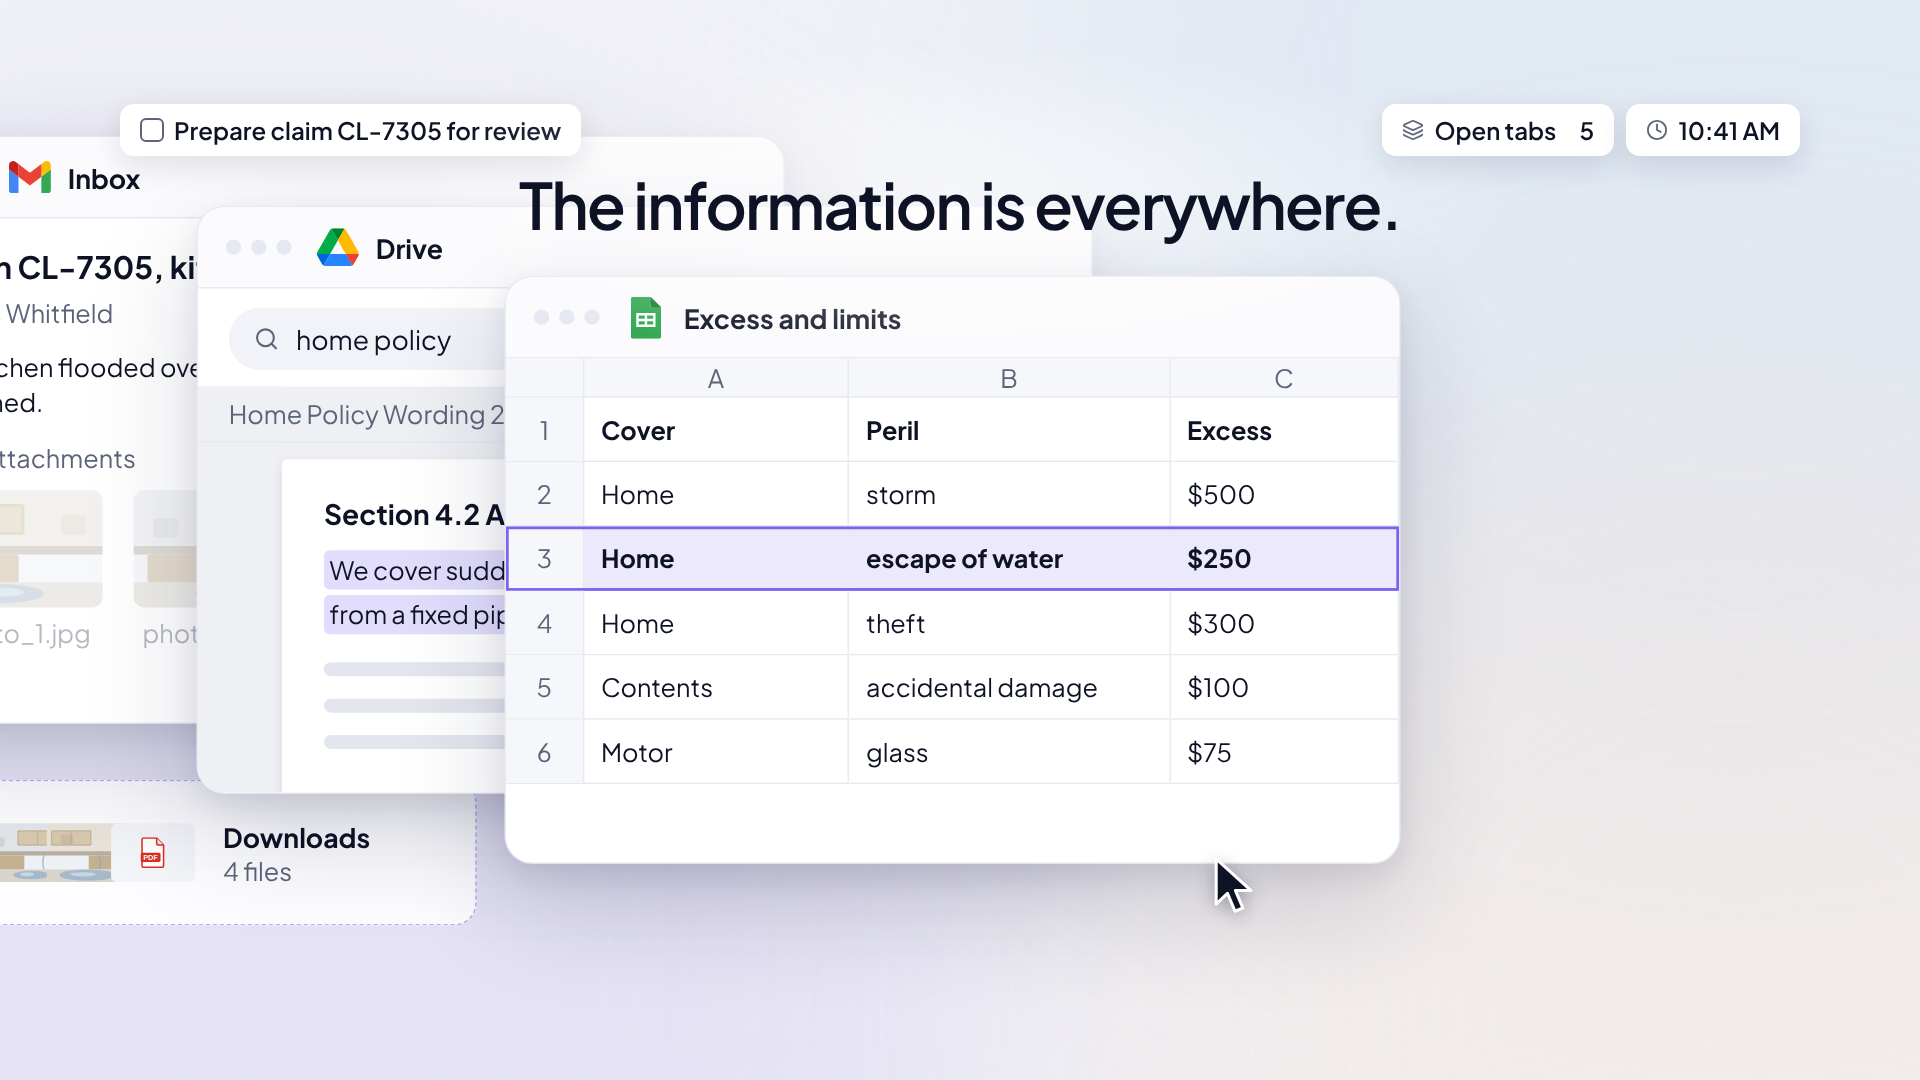
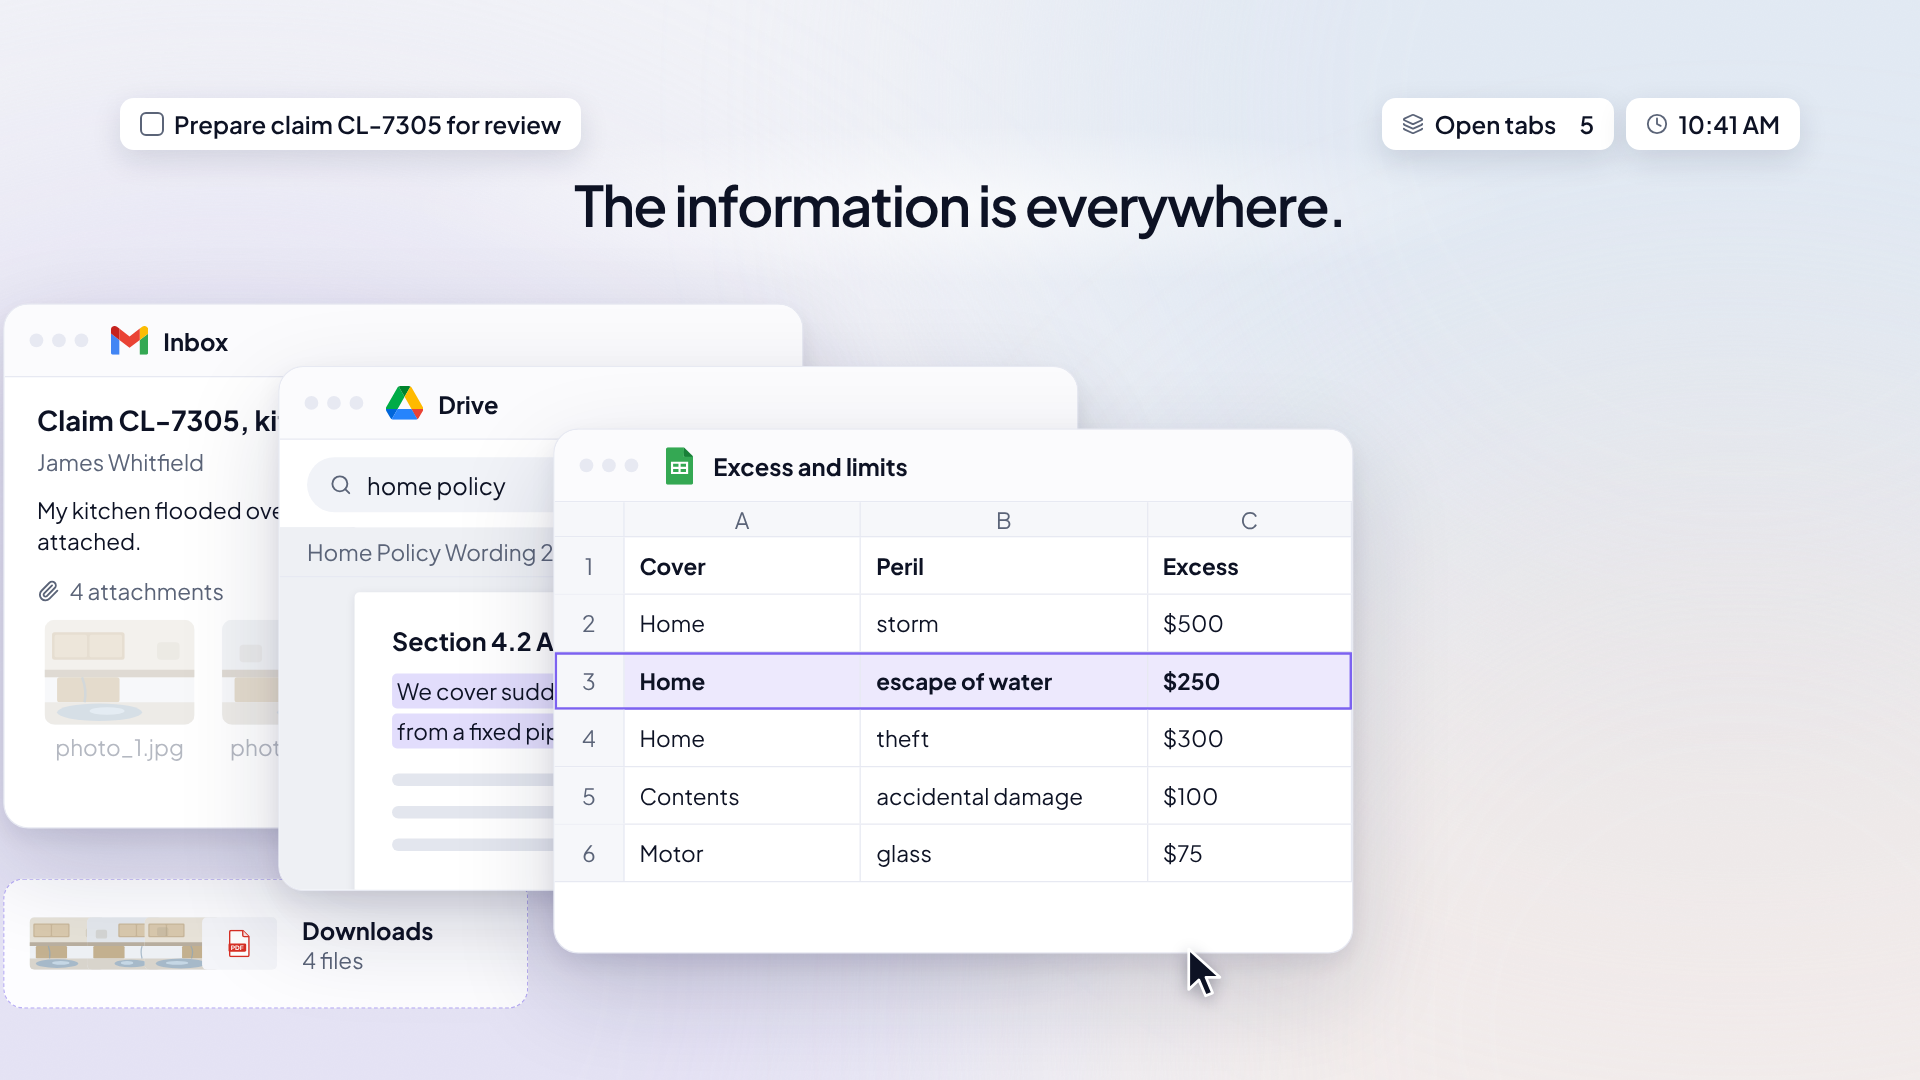
Scene 1: HUD and stage layers, reserved caption lane, stage clipped below it, camera capped at 1.25 and clamped, lane test and stills every 0.5s
Claude-Session: https://claude.ai/code/session_01RzJ2iPxRFapzmNmFA8Xcuj

diff --git a/space-explainer/src/scenes/Scene01Problem.tsx b/space-explainer/src/scenes/Scene01Problem.tsx
@@ -1,5 +1,5 @@
 import React from "react";
-import { AbsoluteFill, Img, interpolate, staticFile, useCurrentFrame, useVideoConfig } from "remotion";
+import { AbsoluteFill, getInputProps, Img, interpolate, staticFile, useCurrentFrame, useVideoConfig } from "remotion";
 import { Clock, Layers } from "lucide-react";
 import { EASE, FONT, PRODUCT_THEME_LIGHT as T } from "../theme";
 import { sceneById } from "../timeline";
@@ -88,7 +88,24 @@ const LINES = [
 const TABS: [number, number][] = [[0, 1], [1.2, 2], [S1.drive, 3], [S1.rowClick, 4], [S1.sheets, 5], [S1.slack, 6], [10.6, 7], [11.0, 8], [12.7, 9], [13.0, 11], [13.3, 14]];
 const CLOCK_AT = [0, 2.6, 5.6, 8.5, 9.6, 11.0, 13.0];
 
-const HUD = { left: 120, top: 104, lineY: 204 };
+/**
+ * Two layers. HUD (fixed, never under the camera): the task card and chips in the
+ * top corners of the caption lane, and the caption below them. STAGE (camera):
+ * windows, cursor, Downloads tray, Review summary, clipped below the lane.
+ */
+export const S1_LANE = { top: 96, bottom: 96 + 140 };
+/** Windows keep at least 24px below the lane; the stage keeps 48px at the bottom. */
+export const S1_STAGE = { top: S1_LANE.bottom + 24, bottom: 1080 - 48, feather: 24 };
+/** Card and chips sit in the lane's top corners; the caption below them, 24px clear. */
+const HUD = { left: 120, top: 98, chipH: 52, lineY: 205 };
+/** Caption sizes: 56px in the lane (64px would not fit under the card row), 64px once the lane is released. */
+const LINE_PX = [56, 64];
+/** Lane rule until the morph begins; then the stage clip is released over 0.4s. */
+export const S1_RELEASE = [13.6, 14.0];
+/** The cascade's desktop extent (Review summary top to Downloads tray bottom), desktop px. */
+const CASCADE = { top: 300, bottom: 894 };
+/** Camera zoom cap for Scene 1. */
+export const S1_ZOOM_MAX = 1.25;
 const ORB = { x: INTRO.handoffOrb.x, y: INTRO.handoffOrb.y, size: 300, endSize: INTRO.handoffOrb.size };
 const ORDER: WinKey[] = ["gmail", "drive", "sheets", "slack"];
 const ROT: Record<string, number> = { gmail: -7, drive: 5, sheets: -4, slack: 6 };
@@ -109,7 +126,20 @@ const CAM: { t: number; c: Cam; lin?: boolean }[] = [
   { t: S1.pullBack[1], c: { x: 960, y: 600, z: 0.9 } },
   { t: DUR, c: { x: 966, y: 603, z: 0.912 }, lin: true },
 ];
+/**
+ * Clamp a camera key so the cascade stays inside the stage: its top edge at or below
+ * S1_STAGE.top and its bottom at or above S1_STAGE.bottom, zoom at most S1_ZOOM_MAX.
+ */
+const clampCam = (c: Cam): Cam => {
+  const z = Math.min(c.z, S1_ZOOM_MAX);
+  // 6px margin: zoom and pan interpolate together between keys, which can lift the top edge a little.
+  const maxY = CASCADE.top + (540 - S1_STAGE.top - 6) / z;
+  const minY = CASCADE.bottom - (S1_STAGE.bottom - 540) / z;
+  return { x: c.x, y: Math.max(minY, Math.min(maxY, c.y)), z };
+};
+const CAM_KEYS = CAM.map((k) => ({ ...k, c: clampCam(k.c) }));
 export const s1CamAt = (t: number): Cam => {
+  const CAM = CAM_KEYS;
   if (t <= CAM[0].t) return CAM[0].c;
   for (let i = 0; i < CAM.length - 1; i++) {
     const a = CAM[i];
@@ -155,17 +185,17 @@ export const S1_COMPLETE_AT = Math.max(S1.chips[3] + 0.3, S1.line2 + lineIn(LINE
 export const S1_COMPLETE_HOLD = S1.endOut[0] - S1_COMPLETE_AT;
 export const S1_LINE3_HOLD = S1_COMPLETE_HOLD;
 export const SCENE01_TEXT: TextBeatSpec[] = [
-  { id: "line1", text: LINES[0].text, readyAt: LINES[0].from + lineIn(LINES[0].text), leaveAt: LINES[0].to, fontPx: 64 },
+  { id: "line1", text: LINES[0].text, readyAt: LINES[0].from + lineIn(LINES[0].text), leaveAt: LINES[0].to, fontPx: LINE_PX[0] },
   { id: "line2", text: LINES[1].text, readyAt: LINES[1].from + lineIn(LINES[1].text), leaveAt: LINES[1].to, fontPx: 64, exception: "Brief: the line reveals at 15.4s and the complete frame holds 1.2s before 18.2s" },
   { id: "chips", text: P.scene1.chips.join(" "), readyAt: S1_COMPLETE_AT, leaveAt: S1.endOut[0], fontPx: 28, exception: "Brief: hold the complete frame at least 1.2s" },
   { id: "task", text: P.scene1.task, readyAt: 0.9, leaveAt: S1.hudOut[0], fontPx: 24, ui: true },
 ];
 
 /** A top line, words blurring in as in FeatureTitle, at 64px. */
-const Line: React.FC<{ text: string; t: number; out: number }> = ({ text, t, out }) => {
+const Line: React.FC<{ text: string; t: number; out: number; px: number }> = ({ text, t, out, px }) => {
   const words = text.split(" ");
   return (
-    <div data-guard="text" data-guard-label={`Line: ${text}`} style={{ fontFamily: FONT.sans, fontWeight: FEATURE_TITLE.weight, fontSize: 64, letterSpacing: FEATURE_TITLE.tracking, lineHeight: 1.1, color: T.ink, whiteSpace: "nowrap", opacity: 1 - out }}>
+    <div data-guard="text" data-guard-label={`Line: ${text}`} style={{ fontFamily: FONT.sans, fontWeight: FEATURE_TITLE.weight, fontSize: px, letterSpacing: FEATURE_TITLE.tracking, lineHeight: 1.1, color: T.ink, whiteSpace: "nowrap", opacity: 1 - out }}>
       {words.map((w, i) => {
         const p = EASE(ramp(t, i * FEATURE_TITLE.stagger, i * FEATURE_TITLE.stagger + FEATURE_TITLE.wordIn));
         const blur = 12 * (1 - p) + 10 * out;
@@ -224,11 +254,23 @@ export const Scene01Problem: React.FC = () => {
   const orbR = spaceOrbOuterRadius(orbSize, true);
   const summaryOut = EASE(ramp(t, S1.hudOut[0], S1.hudOut[1]));
 
+  // Stage clip below the caption lane, feathered 24px at the top; released when the morph begins.
+  const release = EASE(ramp(t, S1_RELEASE[0], S1_RELEASE[1]));
+  const clipTop = S1_LANE.bottom * (1 - release);
+  const featherEnd = clipTop + S1_STAGE.feather * (1 - release);
+  const stageMask = release >= 1 ? undefined : `linear-gradient(to bottom, rgba(0,0,0,0) ${clipTop}px, rgba(0,0,0,1) ${featherEnd}px)`;
+  const stageClip = release >= 1 ? undefined : `inset(${clipTop}px 0px 0px 0px round ${24 * (1 - release)}px)`;
+  // Test hooks (scripts/s1-lane-test.mjs): render without the HUD, or the backdrop only.
+  const layer = (getInputProps() as { s1Layer?: "noHud" | "backdrop" }).s1Layer;
+  const hideHud = layer === "noHud" || layer === "backdrop";
+  const hideStage = layer === "backdrop";
+
   return (
     <AbsoluteFill style={{ width: 1920, height: 1080 }}>
       <ProblemBackdrop timeOffset={sceneById(S).start} />
 
-      {/* Desktop under the camera */}
+      {/* STAGE layer: the desktop under the camera, clipped below the caption lane */}
+      <AbsoluteFill data-s1="stage" data-guard-margin={release > 0 ? undefined : `${S1_STAGE.top},-1,${1080 - S1_STAGE.bottom}`} style={{ visibility: hideStage ? "hidden" : undefined, clipPath: stageClip, WebkitMaskImage: stageMask, maskImage: stageMask }}>
       <AbsoluteFill style={{ transform: camCss(cam), transformOrigin: "0 0" }}>
         {summaryOut < 1 ? (
           <div style={{ opacity: 1 - summaryOut }}>
@@ -274,6 +316,7 @@ export const Scene01Problem: React.FC = () => {
         {dragging ? <DragStack x={cur.x} y={cur.y} opacity={EASE(ramp(t, S1.dragPress, S1.dragPress + 0.12))} /> : null}
         {cursorO > 0 ? <Cursor keys={S1_CURSOR} opacity={cursorO} ripple="neutral" /> : null}
       </AbsoluteFill>
+      </AbsoluteFill>
 
       {/* Logos detach from their windows and stream into the centre */}
       {ORDER.map((k) => {
@@ -302,7 +345,9 @@ export const Scene01Problem: React.FC = () => {
         </div>
       ) : null}
 
-      {/* Task card, top left, inside the safe area */}
+      {/* HUD layer: fixed, never transformed by the camera */}
+      <AbsoluteFill data-s1="hud" style={{ visibility: hideHud ? "hidden" : undefined }}>
+      {/* Task card, top left corner of the lane */}
       {hudOut < 1 ? (
         <div style={{ position: "absolute", left: HUD.left, top: HUD.top, opacity: hudIn * (1 - hudOut), filter: hudOut > 0.02 ? `blur(${10 * hudOut}px)` : undefined, transform: `translateY(${(1 - hudIn) * 24}px)` }}>
           <Chip label="Task card">
@@ -338,13 +383,15 @@ export const Scene01Problem: React.FC = () => {
         if (out >= 1) return null;
         return (
           <React.Fragment key={l.text}>
-            <div style={{ position: "absolute", left: 960 - 560, top: HUD.lineY - 160, width: 1120, height: 320, borderRadius: "50%", background: "radial-gradient(closest-side, rgba(255,255,255,0.65), rgba(255,255,255,0.35) 45%, rgba(255,255,255,0) 100%)", opacity: EASE(ramp(t, l.from, l.from + 0.5)) * (1 - out) }} />
+            <div style={{ position: "absolute", left: 960 - 560, top: HUD.lineY - 80, width: 1120, height: 160, borderRadius: "50%", background: "radial-gradient(closest-side, rgba(255,255,255,0.65), rgba(255,255,255,0.35) 45%, rgba(255,255,255,0) 100%)", opacity: EASE(ramp(t, l.from, l.from + 0.5)) * (1 - out) }} />
             <div style={{ position: "absolute", left: 0, right: 0, top: HUD.lineY, display: "flex", justifyContent: "center", transform: "translateY(-50%)" }}>
-              <Line text={l.text} t={t - l.from} out={out} />
+              <Line text={l.text} t={t - l.from} out={out} px={LINE_PX[i]} />
             </div>
           </React.Fragment>
         );
       })}
+
+      </AbsoluteFill>
 
       {/* Four chips pop around the orb, one after another */}
       {P.scene1.chips.map((c, i) => {

diff --git a/space-explainer/scripts/check-timing.ts b/space-explainer/scripts/check-timing.ts
@@ -5,8 +5,9 @@
 import { BUILT_FRAMES, BUILT_SCENES, SCENES, TOTAL_SECONDS } from "../src/timeline";
 import { checkReadability, type GuardIssue, type TextBeatSpec } from "../src/lib/guards";
 import { readHoldSeconds } from "../src/theme";
-import { S1, SCENE01_TEXT, S1_LINE3_HOLD, s1CamAt, S1_CURSOR } from "../src/scenes/Scene01Problem";
-import { WINDOWS, WIN } from "../src/components/desktop/Desktop";
+import { S1, SCENE01_TEXT, S1_LINE3_HOLD, s1CamAt, S1_CURSOR, S1_LANE, S1_STAGE, S1_RELEASE, S1_ZOOM_MAX } from "../src/scenes/Scene01Problem";
+import { cursorPosAt } from "../src/components/Cursor";
+import { TRAY, WINDOWS, WIN } from "../src/components/desktop/Desktop";
 import { SCENE02_TEXT, SCENE02_SETTLED } from "../src/scenes/Scene02Intro";
 import { SCENE03_TEXT, S3_CURSOR } from "../src/scenes/Scene03Chat";
 import { BUBBLE_HOLDS, SCENE04_TEXT, S4_CURSOR } from "../src/scenes/Scene04Agents";
@@ -81,6 +82,32 @@ if (s11Hold < 1.5) issues.push({ guard: "timeline", message: "Scene 12 lockup ho
   }
   console.log(`\nScene 1 camera: largest move of a window centre between frames ${worst.toFixed(2)}px at ${worstT.toFixed(2)}s (limit 14px)`);
   if (worst > 14) issues.push({ guard: "motion", message: `Scene 1 camera moves a window ${worst.toFixed(1)}px in one frame at ${worstT.toFixed(2)}s` });
+  // Caption lane: until the morph begins, every window, the tray and the cursor stay 24px below the lane.
+  let topMin = Infinity;
+  let topAt = 0;
+  let zMax = 0;
+  for (let f = 0; f < S1_RELEASE[0] * fps; f++) {
+    const t = f / fps;
+    const c = s1CamAt(t);
+    zMax = Math.max(zMax, c.z);
+    const tops: number[] = [];
+    for (const k of Object.keys(WINDOWS) as (keyof typeof WINDOWS)[]) {
+      const from = (S1 as unknown as Record<string, number>)[k];
+      if (t >= from) tops.push(WINDOWS[k].y);
+    }
+    if (t >= S1.tray) tops.push(TRAY.y);
+    if (t >= 1.2) tops.push(cursorPosAt(S1_CURSOR, t).y);
+    for (const y of tops) {
+      const sy = 540 + c.z * (y - c.y);
+      if (sy < topMin) {
+        topMin = sy;
+        topAt = t;
+      }
+    }
+  }
+  console.log(`Scene 1 stage: highest top edge ${topMin.toFixed(1)}px at ${topAt.toFixed(2)}s (lane ends ${S1_LANE.bottom}px, stage starts ${S1_STAGE.top}px); largest zoom ${zMax.toFixed(3)}`);
+  if (topMin < S1_STAGE.top - 0.5) issues.push({ guard: "lane", message: `Scene 1 stage reaches ${topMin.toFixed(1)}px at ${topAt.toFixed(2)}s, above ${S1_STAGE.top}px` });
+  if (zMax > S1_ZOOM_MAX + 1e-6) issues.push({ guard: "lane", message: `Scene 1 zoom ${zMax.toFixed(3)} over ${S1_ZOOM_MAX}` });
   console.log(`Scene 1 complete closing frame holds ${S1_LINE3_HOLD.toFixed(2)}s (brief: at least 1.2s)`);
   if (S1_LINE3_HOLD < 1.2) issues.push({ guard: "timeline", message: "Scene 1 closing frame holds under 1.2s" });
   for (const c of cursorClickReport(S1_CURSOR)) {

diff --git a/space-explainer/src/lib/guards.ts b/space-explainer/src/lib/guards.ts
@@ -12,18 +12,27 @@ export type Rect = { x: number; y: number; w: number; h: number };
 export type GuardIssue = { guard: string; message: string };
 
 /** SafeAreaGuard: nothing within 96px of the edge except backgrounds. */
-export const checkSafeArea = (r: Rect, label: string): GuardIssue[] => {
+/**
+ * Margins for elements inside a layer that sets its own (`data-guard-margin="top,side,bottom"`,
+ * frame px from each edge; a negative side means the camera may crop at the sides).
+ */
+export type GuardMargin = { top: number; side: number; bottom: number };
+export const checkSafeArea = (r: Rect, label: string, m?: GuardMargin): GuardIssue[] => {
   const tol = 0.5;
+  const top = m ? m.top : SAFE;
+  const side = m ? m.side : SAFE;
+  const bottom = m ? m.bottom : SAFE;
   const out =
-    r.x < SAFE - tol ||
-    r.y < SAFE - tol ||
-    r.x + r.w > VIDEO.width - SAFE + tol ||
-    r.y + r.h > VIDEO.height - SAFE + tol;
+    (side >= 0 && (r.x < side - tol || r.x + r.w > VIDEO.width - side + tol)) ||
+    r.y < top - tol ||
+    r.y + r.h > VIDEO.height - bottom + tol;
   return out
     ? [
         {
           guard: "SafeAreaGuard",
-          message: `${label} at ${JSON.stringify(roundRect(r))} enters the ${SAFE}px margin`,
+          message: m
+            ? `${label} at ${JSON.stringify(roundRect(r))} leaves its layer (top ${top}px, bottom margin ${bottom}px)`
+            : `${label} at ${JSON.stringify(roundRect(r))} enters the ${SAFE}px margin`,
         },
       ]
     : [];

diff --git a/space-explainer/src/components/GuardLayer.tsx b/space-explainer/src/components/GuardLayer.tsx
@@ -24,6 +24,14 @@ type GuardProps = {
  * With inputProps.guardLog it prints a JSON report per frame for the check script.
  * With inputProps.hideText it hides text so the check script can sample the background behind it.
  */
+/** Margins set by an enclosing layer (`data-guard-margin="top,side,bottom"`), else the 96px safe area. */
+const layerMargin = (el: Element) => {
+  const v = (el.closest("[data-guard-margin]") as HTMLElement | null)?.dataset.guardMargin;
+  if (!v) return undefined;
+  const [top, side, bottom] = v.split(",").map(Number);
+  return { top, side, bottom };
+};
+
 export const GuardLayer: React.FC<{ scene: string }> = ({ scene }) => {
   const frame = useCurrentFrame();
   const ref = useRef<HTMLDivElement>(null);
@@ -99,7 +107,7 @@ export const GuardLayer: React.FC<{ scene: string }> = ({ scene }) => {
             h: rect.height / k,
           };
           const issues = [
-            ...(kind === "agent" || kind === "decision" || (kind === "brand" && el.closest("[data-guard-bg]")) ? [] : checkSafeArea(r, label)),
+            ...(kind === "agent" || kind === "decision" || (kind === "brand" && el.closest("[data-guard-bg]")) ? [] : checkSafeArea(r, label, layerMargin(el))),
             ...(kind === "logo"
               ? checkLogo(
                   (el.querySelector("img")?.getBoundingClientRect().height ??

diff --git a/space-explainer/scripts/s1-lane-compare.py b/space-explainer/scripts/s1-lane-compare.py
@@ -1,0 +1,41 @@
+"""Checks written by s1-lane-test.mjs: stage pixels in the lane, HUD in the safe area, caption clear of card and chips."""
+import json, sys
+from pathlib import Path
+import numpy as np
+from PIL import Image
+
+out = Path(sys.argv[1])
+frames = json.loads((out / "frames.json").read_text())
+LANE = (96, 236)
+SAFE = 96
+GAP = 24
+fails, worst = [], 0
+for fr in frames:
+    a = np.asarray(Image.open(out / f"{fr['frame']}-noHud.png").convert("RGB"), dtype=np.int16)[LANE[0]:LANE[1]]
+    b = np.asarray(Image.open(out / f"{fr['frame']}-bg.png").convert("RGB"), dtype=np.int16)[LANE[0]:LANE[1]]
+    d = np.abs(a - b).max(axis=2)
+    n = int((d > 2).sum())
+    worst = max(worst, n)
+    if n:
+        ys, xs = np.nonzero(d > 2)
+        fails.append(f"(a) {fr['t']:.2f}s: {n} stage pixels in the lane, x {xs.min()}-{xs.max()} y {ys.min() + LANE[0]}-{ys.max() + LANE[0]}")
+    vis = [i for i in fr["items"] if i["opacity"] > 0.05]
+    for i in vis:
+        r = i["rect"]
+        if r["x"] < SAFE - 0.5 or r["y"] < SAFE - 0.5 or r["x"] + r["w"] > 1920 - SAFE + 0.5 or r["y"] + r["h"] > 1080 - SAFE + 0.5:
+            fails.append(f"(b) {fr['t']:.2f}s: {i['label']} outside the safe area {r}")
+    lines = [i for i in vis if i["label"].startswith("Line: ")]
+    others = [i for i in vis if not i["label"].startswith("Line: ")]
+    for l in lines:
+        L = l["rect"]
+        for o in others:
+            R = o["rect"]
+            if L["x"] < R["x"] + R["w"] + GAP and R["x"] < L["x"] + L["w"] + GAP and L["y"] < R["y"] + R["h"] + GAP and R["y"] < L["y"] + L["h"] + GAP:
+                fails.append(f"(c) {fr['t']:.2f}s: caption within {GAP}px of {o['label']}")
+captions = sum(1 for fr in frames for i in fr["items"] if i["label"].startswith("Line: ") and i["opacity"] > 0.05)
+report = [f"{len(frames)} frames from 0 to 13.6s; most stage pixels in the lane in one frame: {worst}; frames with a caption: {captions}"]
+report += fails[:40] + ([f"... {len(fails) - 40} more"] if len(fails) > 40 else [])
+report.append("FAIL" if fails else "PASS: the lane is clear of the stage, the HUD is inside the safe area, the caption keeps 24px from the card and chips.")
+(out / "report.txt").write_text("\n".join(report) + "\n")
+print("\n".join(report))
+sys.exit(1 if fails else 0)

diff --git a/space-explainer/DESIGN.md b/space-explainer/DESIGN.md
@@ -305,6 +305,21 @@ tabs" and the clock top right.
   the complete frame holds at least 1.2s.
 - 18.2 to 19.0s chips and line fade; the lone orb equals Scene 2's first frame.
 The camera keeps every visible window's move under 14px per frame.
+**Layers and caption lane.** Scene 1 is two layers. The HUD layer is fixed and
+never transformed by the camera: the task card (top left) and the Open tabs and
+clock chips (top right) at y 98, and the caption below them, centred at y 205
+in 56px (64px for "What if agents did the work?", after the lane is released).
+The caption lane runs from y 96 to 236. The STAGE layer (windows, cursor,
+Downloads tray, Review summary) is the only layer under the camera; it is
+clipped below the lane with a rounded mask feathered over 24px. The camera zoom
+is capped at 1.25 and every key is clamped so the cascade's top edge stays at or
+below y 266 and its bottom at or above y 1032; the cascade keeps scale 1.0 (window
+text 18px at 1x). From 13.6s the clip is released over 0.4s, so the morph, the
+orb and the four chips use the full frame. `scripts/check-timing.ts` checks the
+stage top edge every frame; `scripts/s1-lane-test.mjs` renders frames without
+the HUD against the backdrop alone and fails on any stage pixel in the lane, on
+a HUD element outside the safe area, or on a caption within 24px of the card or
+chips.
 
 ### Scene 2, Intro (0:19 to 0:24), built
 First frame equals Scene 1's last. The orb dissolves while the backdrop
@@ -386,4 +401,6 @@ python3 -I scripts/check.py                   # guard checks on the report
 npx tsx scripts/check-timing.ts               # reading time and timeline
 node scripts/motion-test.mjs 10 40            # Scene 4B motion test, every frame
 node scripts/clean-title-test.mjs             # clean title rule, Scenes 4 to 10
+node scripts/s1-lane-test.mjs                 # Scene 1 caption lane and HUD
+STILL_STEP=0.5 node scripts/stills.mjs Scene01  # stills every 0.5s
 ```
